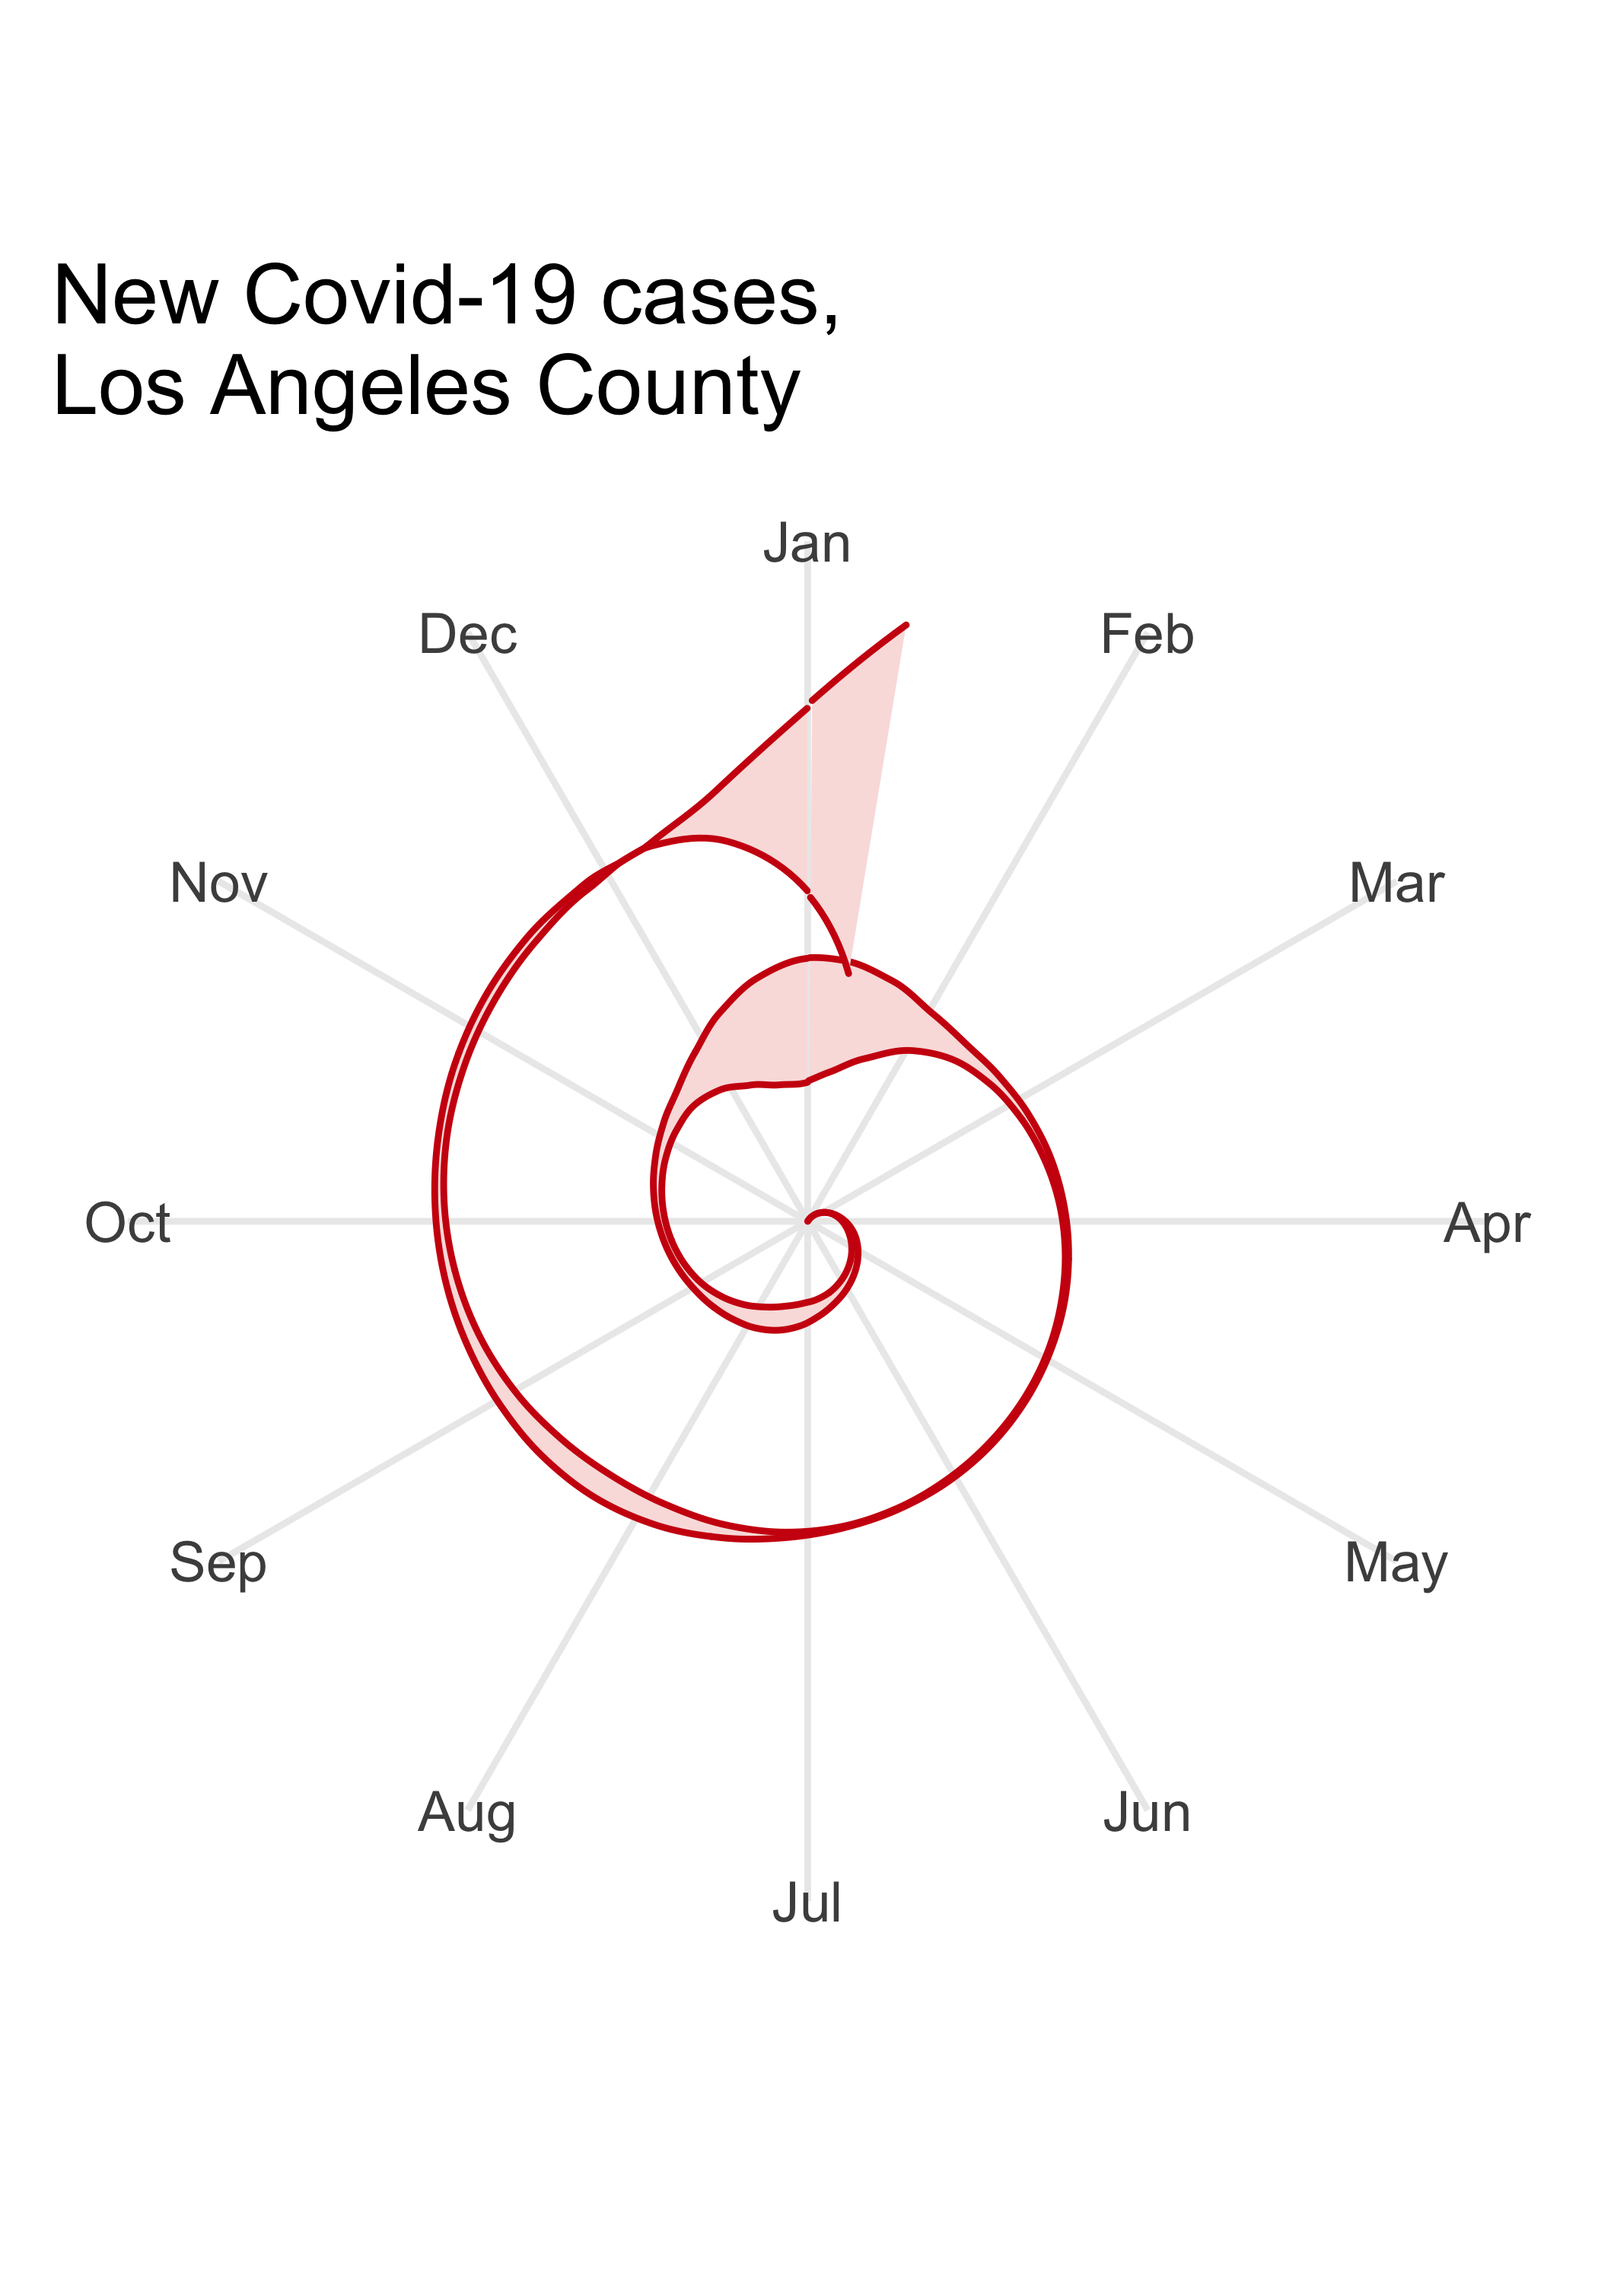
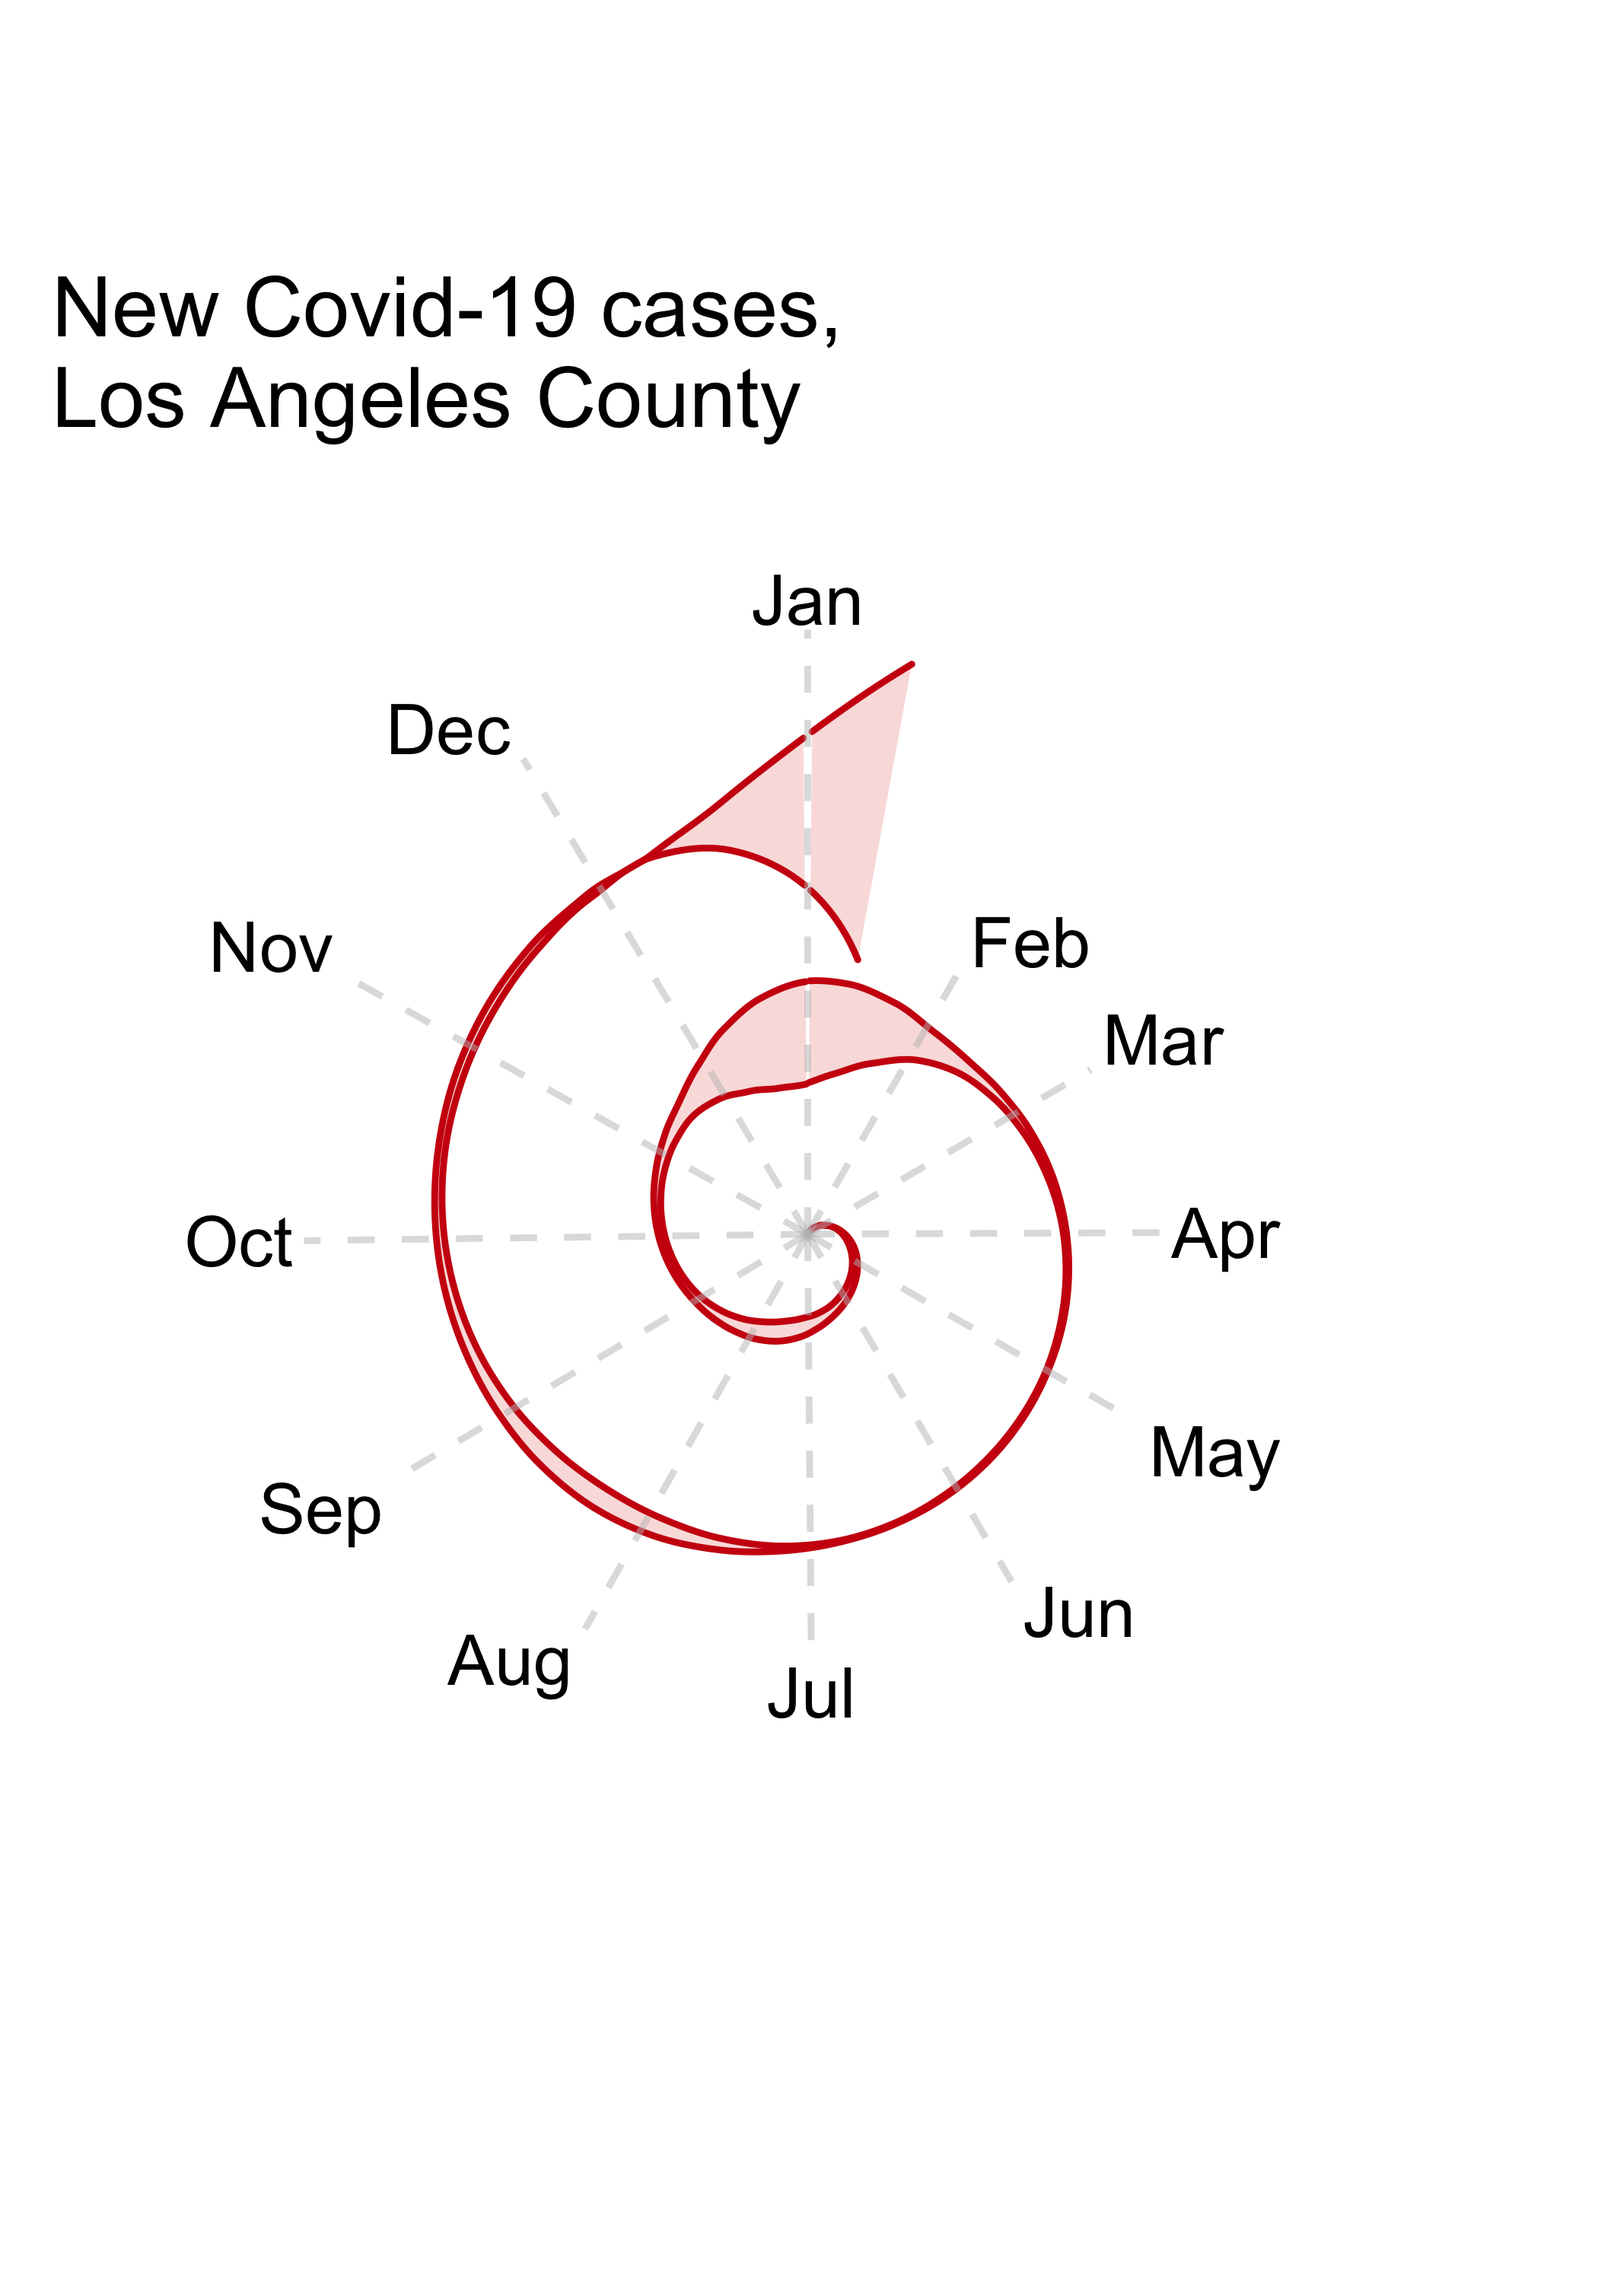
Update 2022-01-12

diff --git a/content/_index.html b/content/_index.html
@@ -9,35 +9,105 @@ output:
 <script src="/rmarkdown-libs/header-attrs/header-attrs.js"></script>
 
 
-<p>For the most recent information, I recommend reading the
+<p>For the most recent information, read the
 <a href="http://publichealth.lacounty.gov/media/coronavirus/#news">LA county public health press releases</a>.</p>
 <p><img src="/_index_files/figure-html/covid-los-angeles-1.png" width="350px" style="display: block; margin: auto;" /></p>
-<p>Adding numbers for last 30 days since there are lots of reporting dips and
-spikes, so it can be usefull to crossreference with recent numbers.</p>
+<p>Below are the reported numbers for the last 30 days. Use this to check for
+reporting weirdness and to get a more precise feel of LA numbers over time.</p>
 <p><img src="/_index_files/figure-html/covid-los-angeles-table-01-1.png" width="350px" style="display: block; margin: auto;" /></p>
 <div id="playground" class="section level2">
 <h2>Playground</h2>
-<p>I was curious to compare prior lags in hospitalizations from cases to see where
-we would be if Omicron is behaving similarly to the previous Delta wave (post
-vaccination effort, and return to normal), and the bigger winter 2021 wave (pre
-vaccination effort, lockdown). The data below are normalized between 1 and 0 for
-comparison purposes. Hospitalization and ICU data have been shifted back 9 days
-which corresponds roughly to the lag seen in the rise of hospitalizations for
-the big winter 2021 wave. I am seeing a rise in hospitalizations for Omicron,
-but it appears to be considerably delayed relative to previous waves. There is
-no evidence yet of a similarly large increase in ICU admission as was typically
-seen in the prior waves. As of this note on Thursday, December 30th, I think
-we are still a couple of weeks out from knowing the trajectory of the LA Omicron
-ICU and hospitalization wave.</p>
+<p>Below is a comparison of cases, hospitalizations, ICU and deaths relative to the
+peak in winter 2021. Hospitalizations and ICU admissions have been shifted back
+9 days, and Deaths have been shifted back 22 days as this was the approximate
+lag for the winter 2021 wave.</p>
 <p><img src="/_index_files/figure-html/covid-los-angeles-figure-02-1.png" width="350px" style="display: block; margin: auto;" /></p>
 <p>Saw some chatter on Twitter about the circular plot of cases published by the
 NYT
 <a href="https://www.nytimes.com/2022/01/06/opinion/omicron-covid-us.html">here behind a paywall</a>.
-My personal take is that I think the NYT makes some great visualizations and if
-you just want to follow along with case numbers, sure the circle plot is,
-unnecessary. But, if that is you, you’re probably best served by the standard
-NYT covid case tracking page
-<a href="https://www.nytimes.com/interactive/2021/us/covid-cases.html">here</a>!
-Anyhow, I thought it might be fun to try to reproduce the figure with LA data</p>
+My personal take is that the figure evokes more emotion than it provides useful
+information, which I think is the point since this is a NYT Opinion piece.
+Anyhow, I thought it might be fun to try to reproduce the figure with LA data.
+(now with code!)</p>
+<pre class="r"><code># All of this just to have grid lines that vary in length for each month!
+df_segments &lt;-
+  tibble(
+    x = seq(0, 360, by = 364 / 12),
+    yend = c(1000, seq(500, 950, by = 500 / 12)),
+    month = month.abb,
+    hjust = c(0.5, -0.1, -0.1, -0.1, -0.1, -0.1, 0.5, 1.1, 1.1, 1.1, 1.1, 1.1),
+    vjust = c(-0.1, -0.1, -0.1, 0.5, 1.1, 1.1, 1.1, 1.1, 1.1, 0.5, -0.1, -0.1)
+  )
+
+# Prepare the plot data
+df_plot &lt;-
+  df_cases |&gt;
+  # Only need date and cases
+  select(
+    Date,
+    Cases = `Smooth estimate` # Using smooth estimate, cause smooth is nice
+  ) |&gt;
+  # Remove the one day in the leap year that makes things too hard *sadface*
+  filter(as.character(Date) != &quot;2020-02-29&quot;) |&gt;
+  # Going to put the dates in order so I can enumerate them to create a spiral
+  # (i.e. increasing radius as we go around the circle)
+  arrange(Date) |&gt;
+  mutate(
+    # Sometimes the smoother goes below 0, we&#39;ll just say those are 0
+    cases = ifelse(Cases &lt; 0, 0, Cases),
+    # To mimic the times choice of blobbing out, I&#39;ll divide by 2
+    cases_half = cases / 2,
+    # I then rescale everything so that they, well, fit without overlapping
+    cases_half = cases_half / 85, # trial and error to get this number
+    #day_of_year = (lubridate::yday(Date) - 0.5),  * 0.9875,
+    day_of_year = lubridate::yday(Date) - 0.5,
+    year = as.factor(lubridate::year(Date)),
+    spiral = 1:n()
+  )
+
+# Given or plot data
+df_plot |&gt;
+  # I plot the day of the year (1 to 365), and I group cases by year to 
+  # allow for plotting one ribbon multiple times to a given x value
+  ggplot(aes(x = day_of_year, group = year)) +
+  # I add my ribbon
+  geom_ribbon(
+    # With a base at the spiral and the ribon spanning equally above and below
+    # the spiral
+    aes(y = spiral, ymax = spiral + cases_half, ymin = spiral - cases_half),
+    # I make it pretty and try to match the color scheme from NYT
+    alpha = 1,
+    color = &quot;#ce0f10&quot;,
+    fill = &quot;#f9e0df&quot;
+  ) +
+  # I manually add grid lines to allow them to vary in length
+  geom_segment(
+    aes(x = x, xend = x, y = 0, yend = yend),
+    linetype = &quot;dashed&quot;,
+    color = &quot;grey&quot;,
+    alpha = 0.5,
+    data = df_segments,
+    inherit.aes = FALSE
+  ) +
+  # Add manually add the month labels since they vary in position
+  geom_text(
+    aes(x = x, y = yend, label = month,  hjust = hjust, vjust = vjust),
+    inherit.aes = FALSE,
+    data = df_segments
+  ) +
+  # I make some adjustments so the yearly period lines up to the circle
+  scale_x_continuous(
+    limits = c(0, 365),
+    expand = c(0, 0)
+  ) +
+  # I make the plot a circle
+  coord_polar() +
+  # Give it a title and remove theme elements I no longer need
+  labs(title = &quot;New Covid-19 cases,\nLos Angeles County&quot;) +
+  theme(
+    axis.title = element_blank(),
+    panel.grid = element_blank(),
+    axis.text = element_blank()
+  )</code></pre>
 <p><img src="/_index_files/figure-html/covid-los-angeles-figure-03-1.png" width="350px" style="display: block; margin: auto;" /></p>
 </div>
